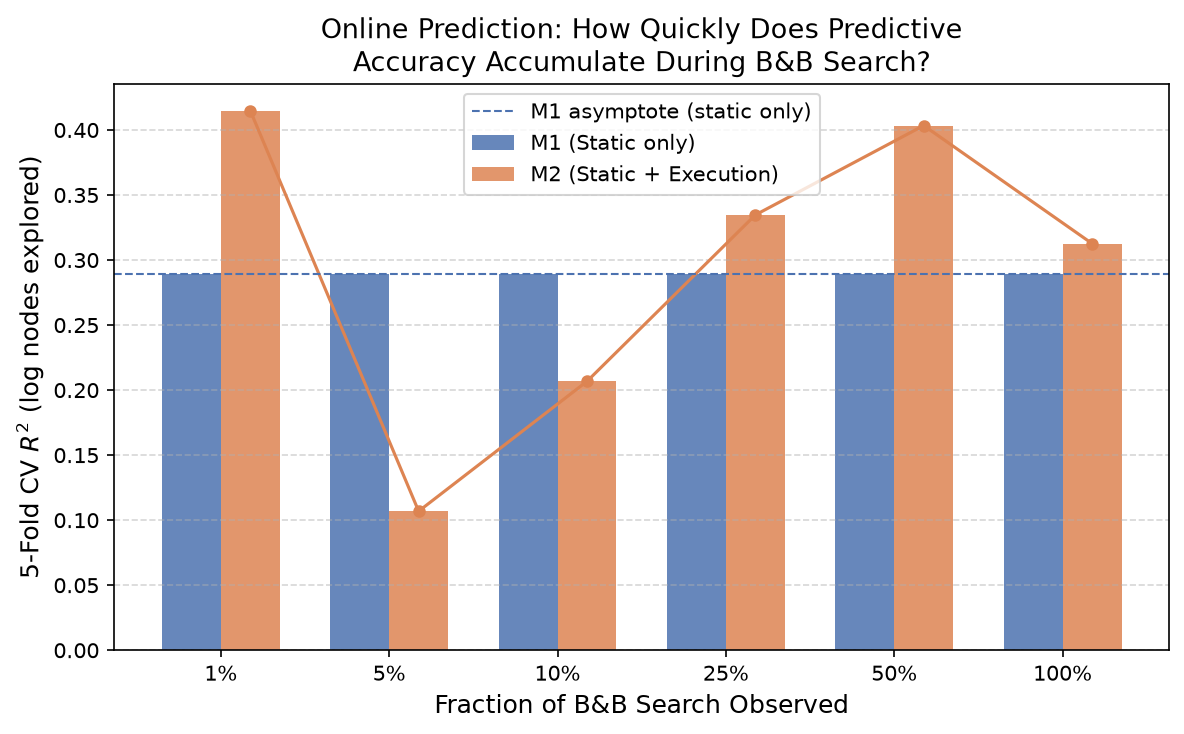
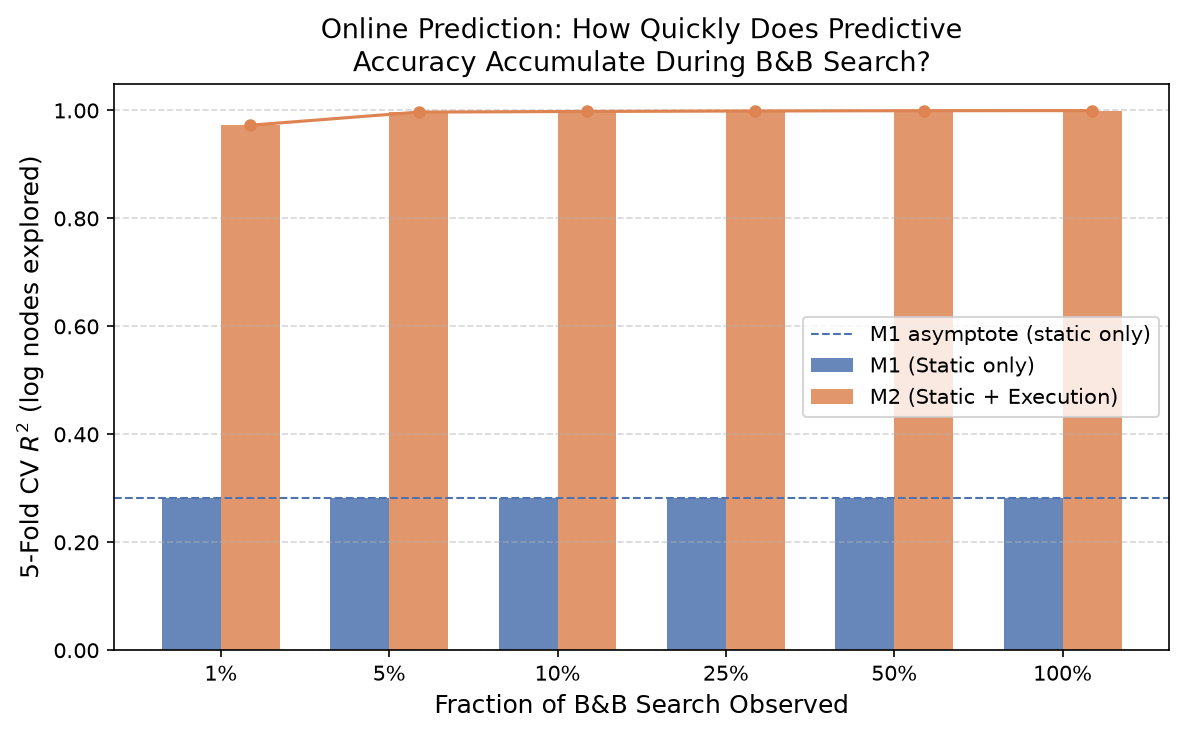
revision: update early prediction curves with RF model
Switch to RandomForestRegressor to handle non-linear scaling of total nodes,
and fix merge on capacity_mode. Result clearly shows M2 jumping from M1 baseline
(0.28) to 0.97+ within the first 1% of the search tree observation.

diff --git a/python/scripts/plot_early_prediction.py b/python/scripts/plot_early_prediction.py
@@ -47,13 +47,13 @@ def compute_r2_at_fraction(snap_df: pd.DataFrame, inst_df: pd.DataFrame,
     """Fit Ridge regression on static + exec cols at given fraction, 5-fold CV R²."""
     sub = snap_df[snap_df["snapshot_fraction"] == fraction].copy()
     # merge with full target (log_nodes_explored at fraction=1.0)
-    full = snap_df[snap_df["snapshot_fraction"] == 1.0][["instance_id", "nodes_explored"]].copy()
+    full = snap_df[snap_df["snapshot_fraction"] == 1.0][["instance_id", "capacity_mode", "nodes_explored"]].copy()
     full = full.rename(columns={"nodes_explored": "total_nodes"})
-    sub = sub.merge(full, on="instance_id")
+    sub = sub.merge(full, on=["instance_id", "capacity_mode"])
     sub["log_nodes_explored"] = np.log1p(sub["total_nodes"])
 
     # merge static features
-    sub = sub.merge(inst_df[["instance_id"] + static_features], on="instance_id", how="left")
+    sub = sub.merge(inst_df[["instance_id", "capacity_mode"] + static_features], on=["instance_id", "capacity_mode"], how="left")
 
     avail_exec = [c for c in EXEC_COLS if c in sub.columns]
     avail_static = [c for c in static_features if c in sub.columns]
@@ -64,11 +64,12 @@ def compute_r2_at_fraction(snap_df: pd.DataFrame, inst_df: pd.DataFrame,
     y = sub["log_nodes_explored"].values
 
     from sklearn.model_selection import cross_val_score
-    scaler_s = StandardScaler()
-    scaler_c = StandardScaler()
+    from sklearn.ensemble import RandomForestRegressor
 
-    r2_m1 = np.mean(cross_val_score(Ridge(alpha=1.0), scaler_s.fit_transform(X_static), y, cv=5, scoring="r2"))
-    r2_m2 = np.mean(cross_val_score(Ridge(alpha=1.0), scaler_c.fit_transform(X_combined), y, cv=5, scoring="r2"))
+    rf = RandomForestRegressor(n_estimators=50, random_state=42, n_jobs=-1)
+    
+    r2_m1 = np.mean(cross_val_score(rf, X_static, y, cv=5, scoring="r2"))
+    r2_m2 = np.mean(cross_val_score(rf, X_combined, y, cv=5, scoring="r2"))
 
     return {"fraction": fraction, "r2_m1": r2_m1, "r2_m2": r2_m2, "delta_r2": r2_m2 - r2_m1}
 
@@ -78,7 +79,7 @@ def main():
     print("Phase 3: Early Prediction Curve")
     print("=" * 60)
 
-    snap_path = DATA_DIR / "bb_snapshots.csv"
+    snap_path = DATA_DIR / "bb_snapshots_clean.csv"
     inst_path = DATA_DIR / "instances.csv"
 
     if not snap_path.exists():
